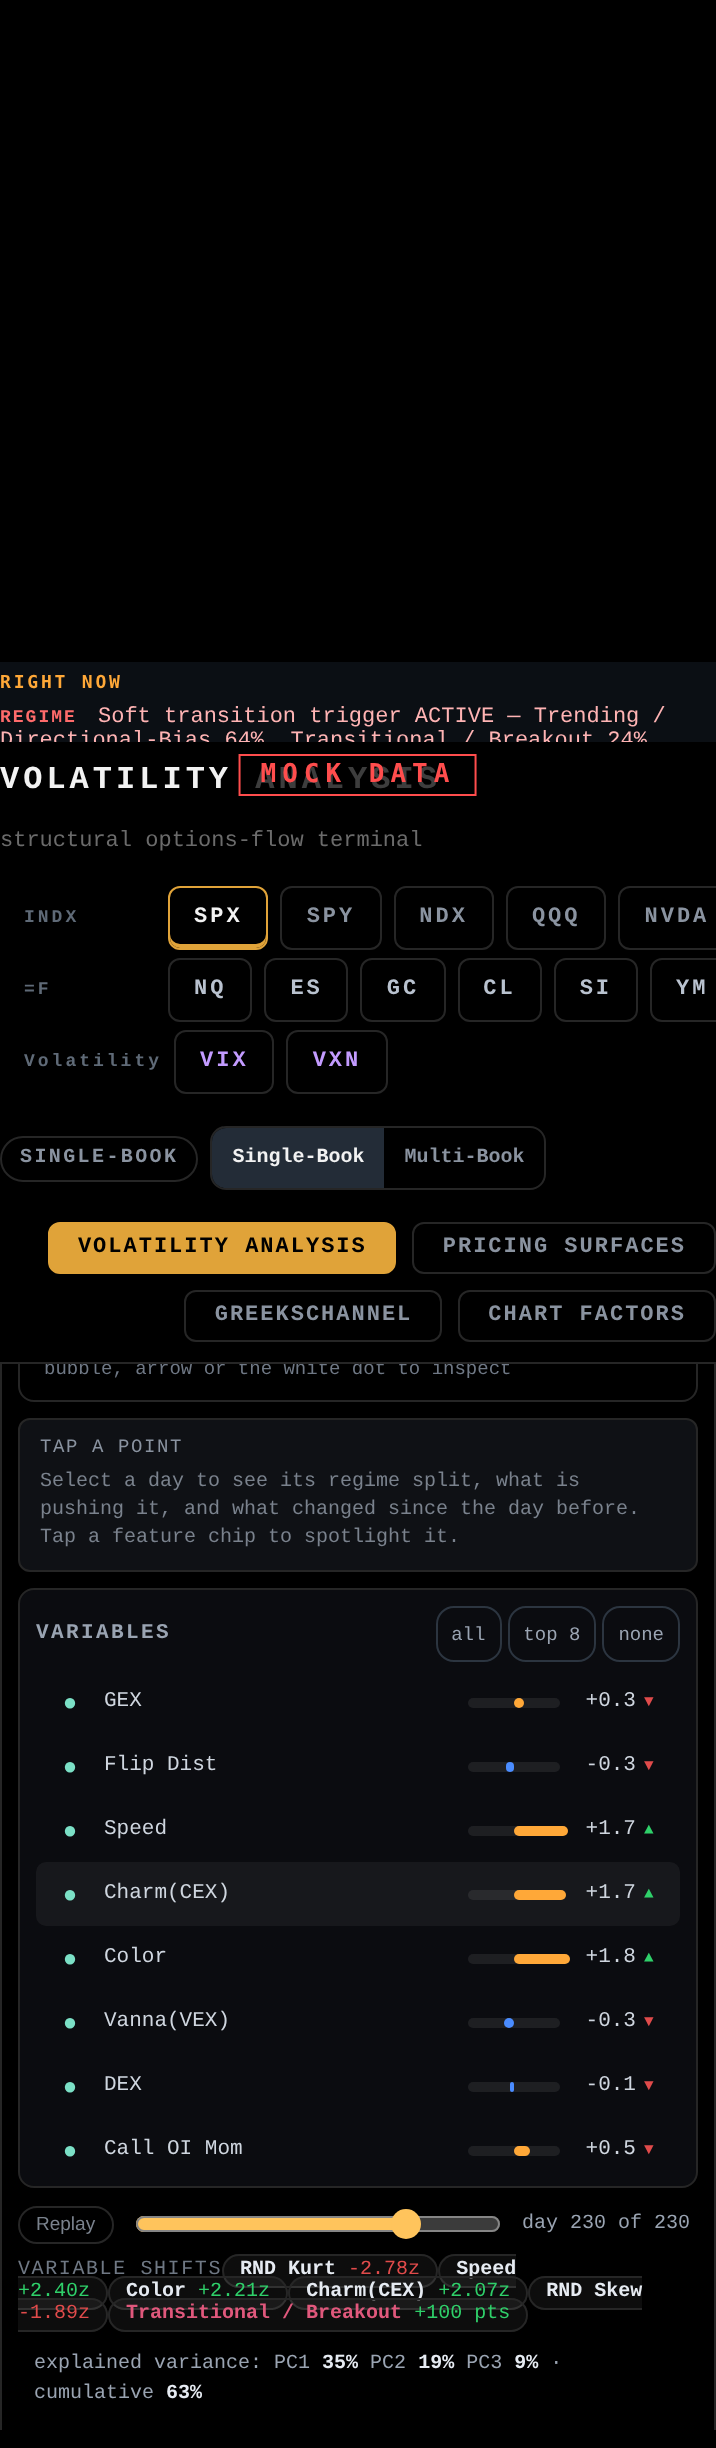
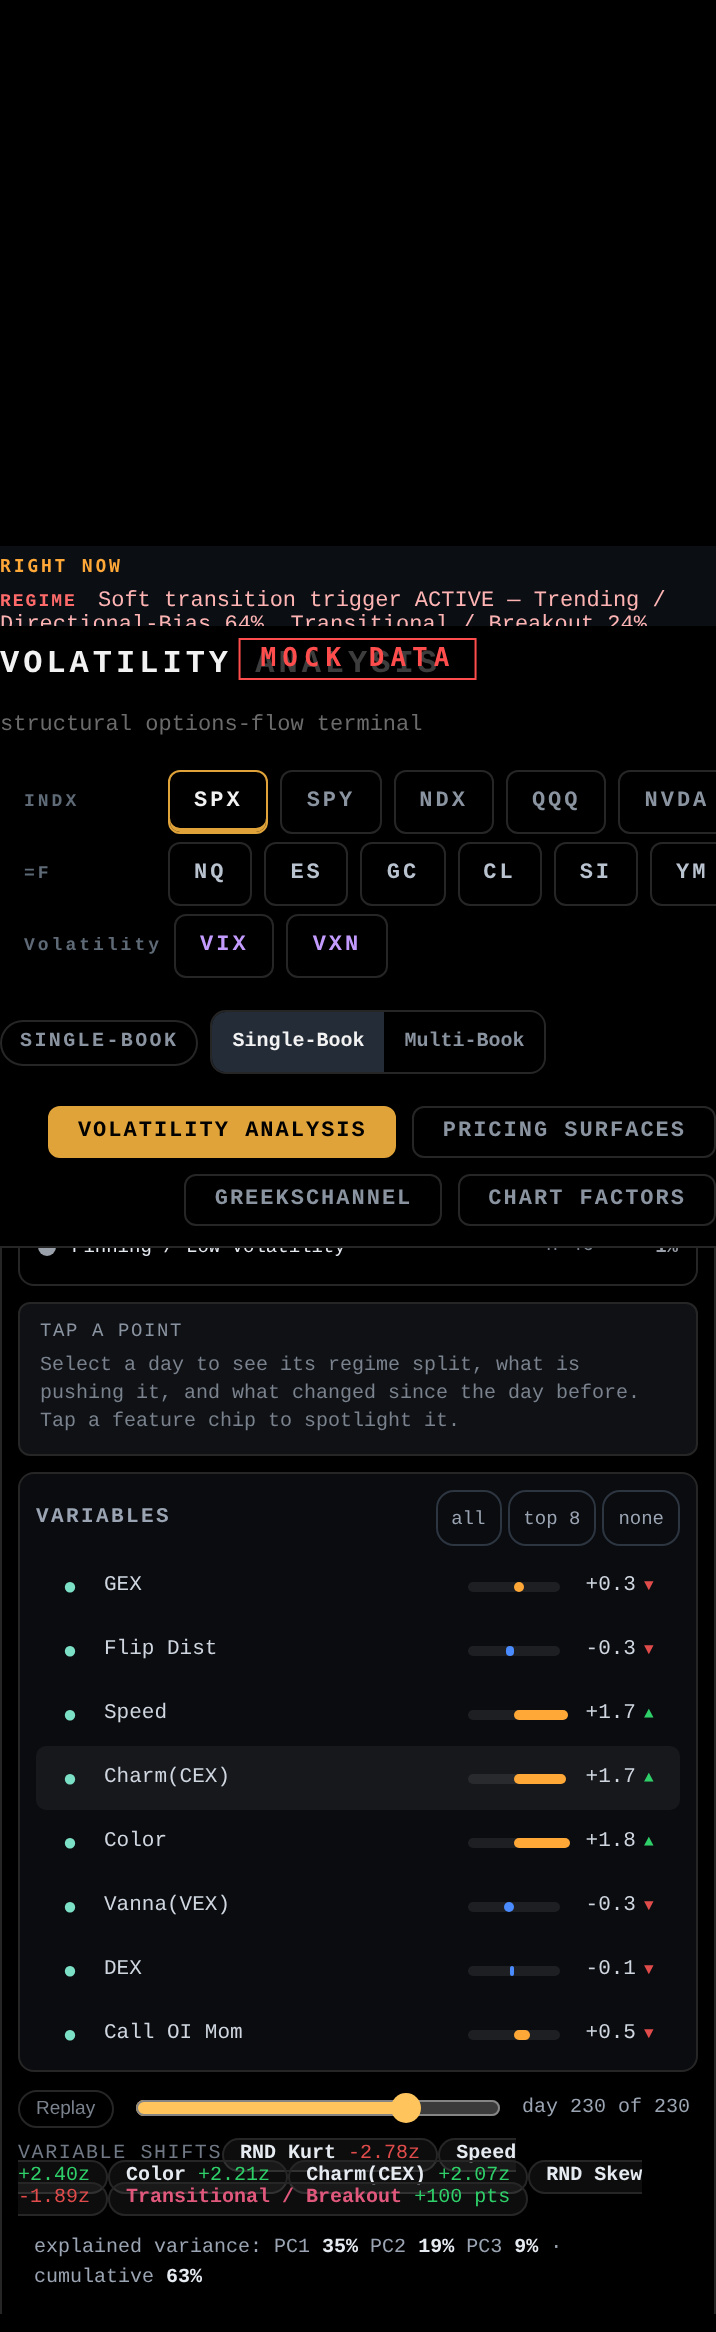
Fit: 2D charts sized from their own box, 3D scale follows pane width, compact biplot legend, single-line headings, demo re-feeds projection data
Claude-Session: https://claude.ai/code/session_01TiRqSBW17WDKaoqqpfefar

diff --git a/web/js/surface_renderer.js b/web/js/surface_renderer.js
@@ -52,7 +52,7 @@ class SurfacePanel {
 
         this.canvas3d = document.createElement('canvas');
         this.leftPane.appendChild(this.canvas3d);
-        this.cam = new Cam3D({ yaw: this.opts.surfaceStyle === 'bloomberg' ? 0.62 : 0.32, pitch: 0.5, zoom: 1, radius: 62 });
+        this.cam = new Cam3D({ yaw: this.opts.surfaceStyle === 'bloomberg' ? 0.62 : 0.32, pitch: 0.5, zoom: 1.22, radius: 62 });
         this.cam.center = [0, 6, 0];
         attachOrbit(this.canvas3d, this.cam, {
             onChange: () => this._draw3d(),
@@ -378,17 +378,20 @@ class SurfacePanel {
             const label = document.createElement('div');
             label.className = 'vt-mini-chart-label';
             label.textContent = dte + ' DTE cross-section';
-            const canvas = document.createElement('canvas');
-            wrap.appendChild(label); wrap.appendChild(canvas);
+            const body = document.createElement('div'); body.className = 'vt-mini-body';
+            const canvas = document.createElement('canvas'); body.appendChild(canvas);
+            wrap.appendChild(label); wrap.appendChild(body);
             this.rightPane.appendChild(wrap);
             this._renderMiniChart(canvas, row, dte);
-            this._miniCharts.push({ canvas, dte });
+            this._miniCharts.push({ canvas, dte, row });
         }
+        // re-measure once the grid has settled (rows/columns resolve after insertion)
+        requestAnimationFrame(() => { for (const m of this._miniCharts) if (m.canvas.isConnected) this._renderMiniChart(m.canvas, m.row, m.dte); });
     }
 
     _renderMiniChart(canvas, row, dte) {
         const g = this._grid;
-        const { ctx, w, h } = vtSizeCanvas(canvas, canvas.parentElement);
+        const { ctx, w, h } = vtSizeCanvas(canvas, canvas.parentElement, 60, 50);
         ctx.clearRect(0, 0, w, h);
         ctx.fillStyle = '#0a0b0e'; ctx.fillRect(0, 0, w, h);
         const padL = 44, padB = 16, padT = 6, padR = 10;

diff --git a/web/demo/demo.js b/web/demo/demo.js
@@ -24,6 +24,8 @@
         // initial: model channels, regime / PCA / viz, volatility card, then the Family NQ scope (lens + multibook + chart factors + sidebar + model card)
         modelFeed(); call('onInsightUpdate', js(pay.insight)); call('onRegimeStatic', js(reg.static)); call('onRegimeLive', js(reg.live)); call('onRegimeViz', js(viz.static)); viz.live.forEach(l => call('onRegimeVizLive', js(l.viz))); call('onVolatility', js(vol));
         if (window.VT_SCOPE) { scope = { mode: 'family', ticker: 'NQ', family: 'NQ' }; window.VT_SCOPE.apply('NQ', 'family', 'NQ'); } else startKey();
+        // a ticker change clears the projection views; re-deliver the regime projection data so 2D / t-SNE modes are populated
+        call('onRegimeViz', js(viz.static)); viz.live.forEach(l => call('onRegimeVizLive', js(l.viz)));
         // continuous updates: every 3 s model values drift, regime/PCA live ticks cycle, and every 4th tick the chart receives its next model epoch (loops when the fixture is exhausted)
         setInterval(() => {
             tick++; modelFeed(1 + 0.08 * Math.sin(tick / 3) + 0.03 * Math.sin(tick * 1.7)); const l = viz.live[tick % viz.live.length]; call('onRegimeVizLive', js(l.viz)); call('onRegimeLive', js(reg.live));

diff --git a/web/js/vt3d.js b/web/js/vt3d.js
@@ -31,7 +31,7 @@ class Cam3D {
         let [x1, y2, z2] = this.rotate(x, y, z);
         if (this.roll) { const cr = Math.cos(this.roll), sr = Math.sin(this.roll); const xr = x1 * cr - y2 * sr; y2 = x1 * sr + y2 * cr; x1 = xr; }
         const D = this.radius * 3.2;
-        const base = (Math.min(w, h) / (2 * this.radius)) * 0.92 * this.zoom;
+        const base = (Math.min(w * 0.78, h) / (2 * this.radius)) * 0.92 * this.zoom;
         const pf = D / Math.max(D - z2, D * 0.15);
         const s = base * (1 + (pf - 1) * this.persp);
         return { sx: w / 2 + x1 * s, sy: h / 2 - y2 * s, z: z2, s };
@@ -96,9 +96,9 @@ function attachOrbit(canvas, cam, cb = {}) {
 }
 
 // Small helpers shared by renderers.
-function vtSizeCanvas(canvas, container) {
+function vtSizeCanvas(canvas, container, minW = 200, minH = 160) {
     const r = container.getBoundingClientRect();
-    const w = Math.max(200, r.width), h = Math.max(160, r.height);
+    const w = Math.max(minW, Math.floor(r.width)), h = Math.max(minH, Math.floor(r.height));
     const dpr = 2;
     if (canvas.width !== w * dpr || canvas.height !== h * dpr) { canvas.width = w * dpr; canvas.height = h * dpr; }
     canvas.style.width = w + 'px'; canvas.style.height = h + 'px';

diff --git a/web/css/style.css b/web/css/style.css
@@ -608,3 +608,15 @@ html, body { margin: 0; height: 100%; background: var(--bg); color: var(--white)
   .vt-page.vt-has-side.active { grid-template-columns: minmax(0, 1fr); }
   .vt-page-side { position: static; max-height: none; border-left: 0; border-top: 1px solid var(--border); }
 }
+/* fit: mini charts size from their own body box (no padded-container overflow); grid tracks may shrink */
+.vt-split-right { grid-template-columns: repeat(2, minmax(0, 1fr)); }
+.vt-mini-chart { min-width: 0; overflow: hidden; }
+.vt-mini-body { position: relative; flex: 1 1 0; min-height: 0; min-width: 0; }
+.vt-mini-body canvas { position: absolute; inset: 0; display: block; }
+/* fit: biplot height follows the viewport; legend is compact and never covers the cloud centre */
+#vt-section-pca-regime .vt-pca-biplot-wrap { height: clamp(430px, calc(100vh - 270px), 760px); }
+.vt-pca-legend { width: 212px; padding: 7px 9px; font-size: 9.5px; }
+.vt-pca-legend .ft { display: none; }
+/* fit: section titles and row labels stay on one line; descriptions wrap beside them */
+.vt-page h2, .vt-row-label { white-space: nowrap; }
+.vt-page h2 + *, .vt-row-label + * { min-width: 0; }

diff --git a/tests/ui/verify_taskfile.py b/tests/ui/verify_taskfile.py
@@ -33,5 +33,12 @@ with sync_playwright() as p:
     chk(pg.evaluate("document.documentElement.scrollWidth") <= 1702, "no horizontal scroll")
     for gone in ["vt-pca-controls", "colorby"]: chk(pg.locator(f'.{gone}, [data-act={gone}]').count() == 0, f"removed {gone}")
     chk(pg.evaluate("window.__pca.bubbleSpread === 2.8 && window.__pca.vectorSpread === 1.0"), "bubbles 2.8 / vectors 1.0 locked")
+    # fit: 2D cross-section charts stay inside their cards at several widths; no horizontal scroll
+    for W in (1366, 1920):
+        pg.set_viewport_size({"width": W, "height": 900}); pg.wait_for_timeout(500)
+        for n in ("vt-page-greeks", "vt-page-pricing"):
+            pg.click(f'[data-page="{n}"]'); pg.wait_for_timeout(1200)
+            bad = pg.evaluate("[...document.querySelectorAll('.vt-page.active .vt-mini-chart')].filter(m=>{const r=m.getBoundingClientRect(),c=m.querySelector('canvas').getBoundingClientRect();return c.right>r.right+1||c.bottom>r.bottom+1}).length")
+            chk(bad == 0, f"{n} {W}px: {bad} clipped 2D charts"); chk(pg.evaluate("document.documentElement.scrollWidth") <= W + 2, f"{n} {W}px horizontal scroll")
     chk(not errs, f"page errors {errs}"); b.close()
 print("FAILURES:", F or "none")
